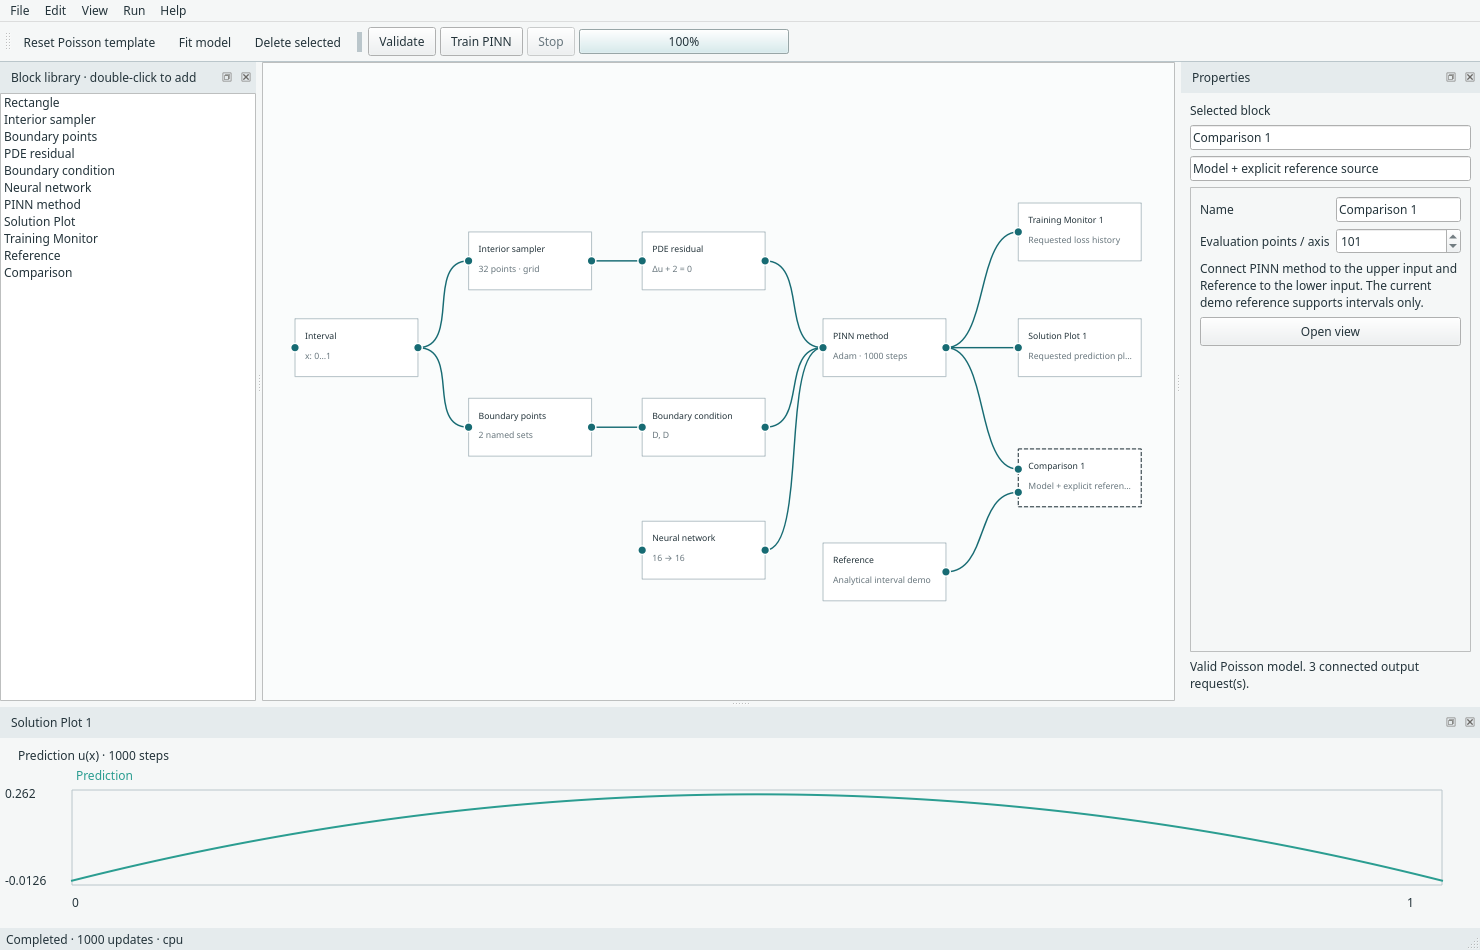
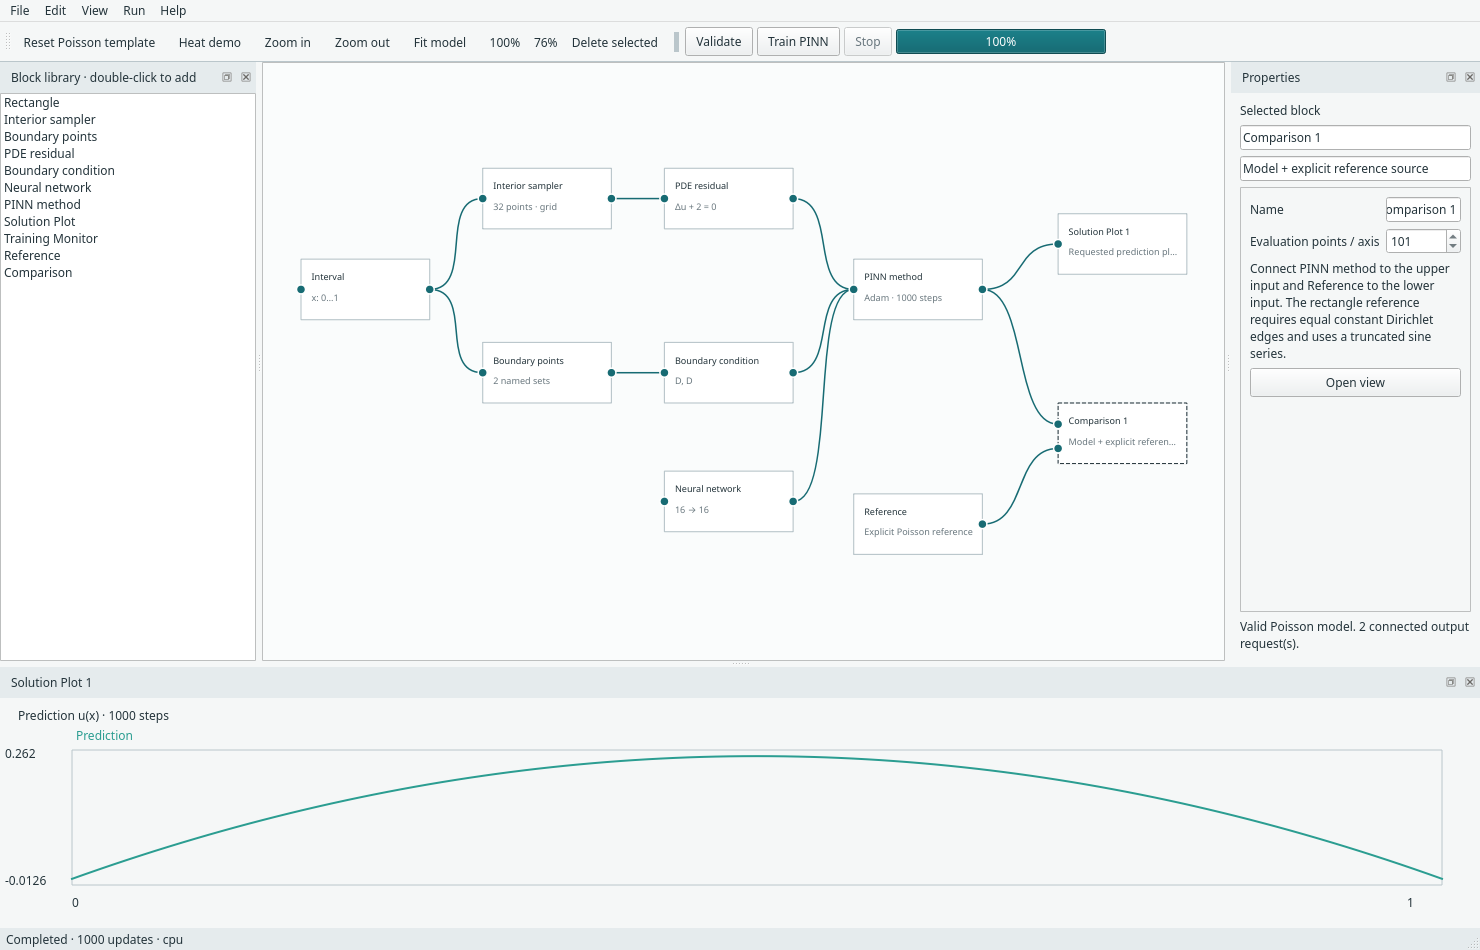
Refine heat comparison layout and capture the complete demo

diff --git a/margam/ui/plots.py b/margam/ui/plots.py
@@ -143,6 +143,7 @@ class FieldPlot(QWidget):
         self.result=None
         self.image=None
         self.title='Prediction'
+        self.setMinimumHeight(230)
 
     def set_result(self,result,title='Prediction',value_range=None):
         self.result=result;self.title=title
@@ -160,7 +161,8 @@ class FieldPlot(QWidget):
         if self.result is None:
             p.drawText(20,25,'Run training to see the predicted field.');return
         c=self.result['config'];values=self.result['values']
-        caption=f"{self.title} · {self.result['steps']} steps\nrange [{min(values):.4g}, {max(values):.4g}]"
+        heading=self.title if self.title=='Reference' else f"{self.title} · {self.result['steps']} steps"
+        caption=f"{heading}\nrange [{min(values):.4g}, {max(values):.4g}]"
         p.drawText(self.rect().adjusted(12,5,-12,-5),Qt.AlignmentFlag.AlignTop|Qt.TextFlag.TextWordWrap,caption)
         ratio=(c.x_max-c.x_min)/(c.y_max-c.y_min)
         h=max(30,self.height()-110);w=min(max(30,self.width()-100),h*ratio);h=min(h,w/ratio)
@@ -180,8 +182,9 @@ class RectangleComparison(QWidget):
         from PySide6.QtWidgets import QLabel,QVBoxLayout,QHBoxLayout
         self.setMinimumHeight(320)
         layout=QVBoxLayout(self)
-        self.metrics=QLabel();self.metrics.setWordWrap(True);layout.addWidget(self.metrics)
-        row=QHBoxLayout();layout.addLayout(row)
+        self.metrics=QLabel();self.metrics.setWordWrap(True)
+        layout.addWidget(self.metrics,0,Qt.AlignmentFlag.AlignTop)
+        row=QHBoxLayout();layout.addLayout(row,1)
         self.prediction=FieldPlot();self.reference=FieldPlot();self.error=FieldPlot()
         for view in [self.prediction,self.reference,self.error]:row.addWidget(view)
 

diff --git a/margam/ui/app.py b/margam/ui/app.py
@@ -293,6 +293,7 @@ class Window(QMainWindow):
         layout.addWidget(self.property_scroll)
         self.validation=QLabel('');self.validation.setWordWrap(True);layout.addWidget(self.validation)
         self.properties_dock=self.dock('Properties',properties,Qt.DockWidgetArea.RightDockWidgetArea)
+        self.properties_dock.setMinimumWidth(340)
         self.log=QPlainTextEdit();self.log.setReadOnly(True)
         self.messages_dock=self.dock('Messages',self.log,Qt.DockWidgetArea.BottomDockWidgetArea)
         self.messages_dock.hide()

diff --git a/tests/test_heat_demo_ui.py b/tests/test_heat_demo_ui.py
@@ -42,6 +42,8 @@ w.open_block(comparison);app.processEvents()
 view=w.output_views.entries[comparison.identifier][1]
 assert view.rectangle_comparison is not None
 assert 'RMSE' in view.rectangle_comparison.metrics.text()
+for _ in range(3):app.processEvents()
+assert view.rectangle_comparison.prediction.height()>=230
 assert not view.grab().isNull()
 w.reset_template();app.processEvents()
 assert len(w.scene.nodes())==7 and not w.output_views.entries
